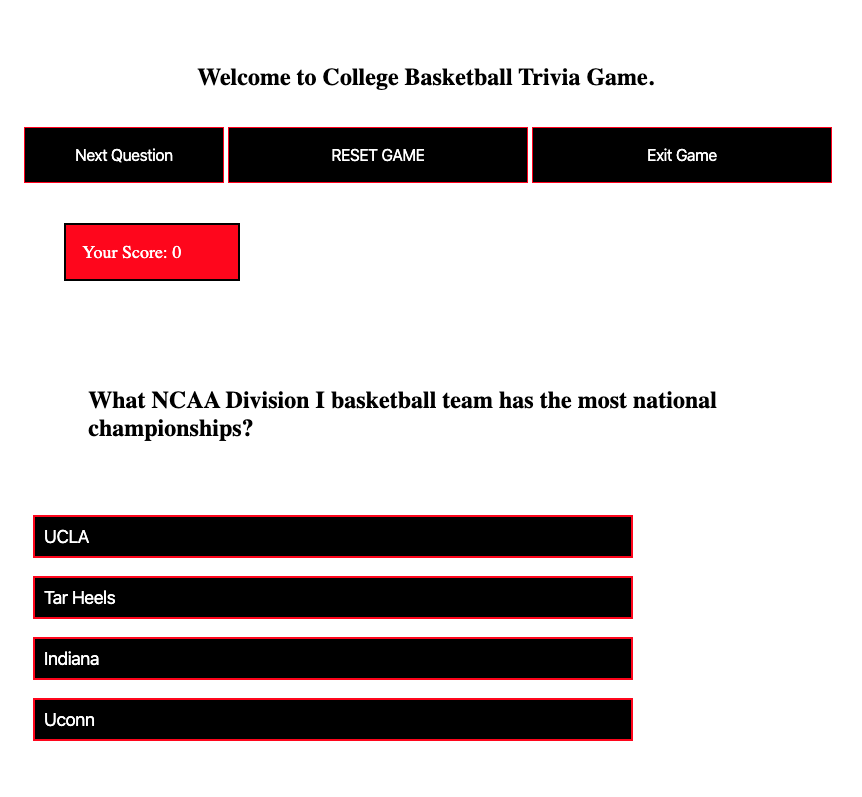
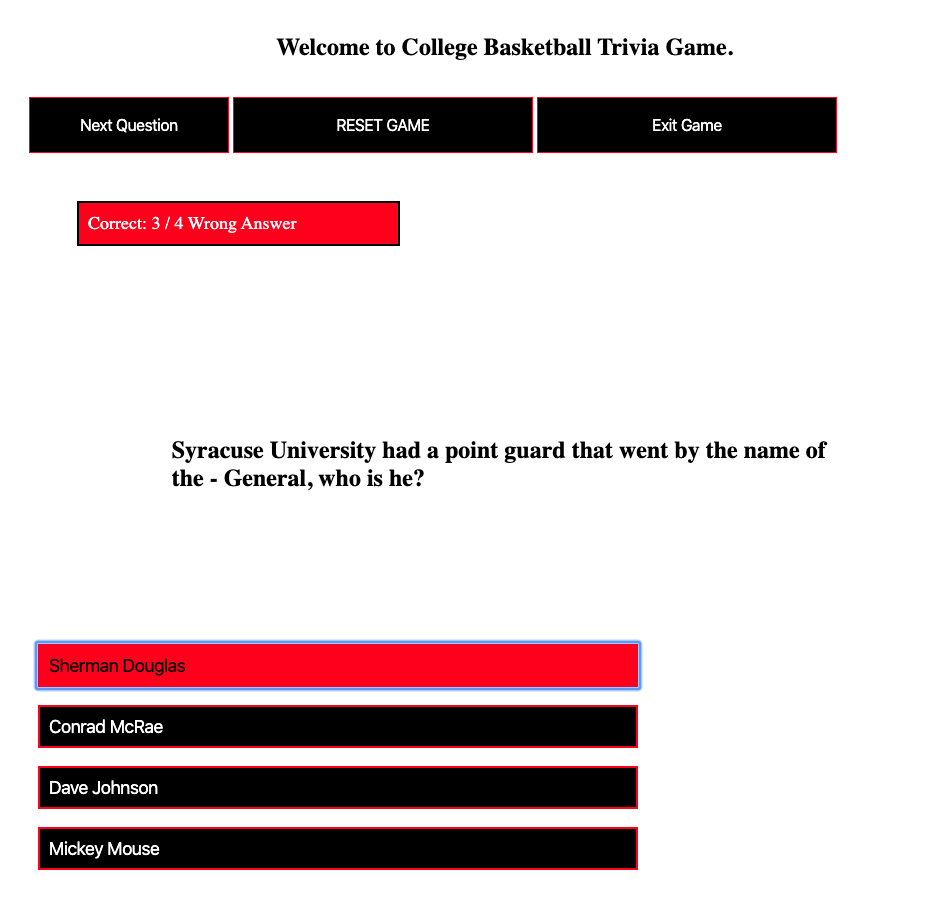
add stuff to readme file

diff --git a/js/gameLogic.js b/js/gameLogic.js
@@ -30,6 +30,7 @@ let scoreButtons = document.getElementsByTagName("span");
 let buttons = document.querySelectorAll(".inputAnswer");
 // console.log(scoreButtons[0]);
 // console.log(scoreButtons[1]);
+console.log(buttons);
 
 //GETS THE RANDOM QUESTION ONCE YOU CLICK ON THE 'NEXT QUESTION BTN'
 nQuestion.addEventListener("click", function() {

diff --git a/README.md b/README.md
@@ -1,8 +1,8 @@
 # Project 1 College Basketball Trivia Game
 
-The College Basketball trivia game project is a simple click through of random questions and answers. You will be given ten questions and four answers to choose from for each question. The scoring is done in the following format; click the correct answer your score goes up in increments of one. If you click a incorrect answers it either decreases your score or the score goes negative number.
+The College Basketball trivia game project is a simple click through of random questions and answers. You will be given ten questions and four answers to choose from for each question. The scoring is done in the following format; click the correct answer your score goes up in increments of one. If you click a incorrect answers it also increments by 1. There is a display for both correct and wrong answers.
 
-After receiving 10 correct answers the player wins and the games end.
+You are only allowed 10 questions the player wins/loses and the games end.
 
 # Motivation:
 
@@ -12,8 +12,7 @@ My love of sports, specifically basketball, motivated me to do this project. As 
 
 This is just two examples of the positive and negative numbers on your score depending on what I click for the answers. If your score shows negative, such at the picture (-7), you will have to click 7 times then another 10 positive to win.
 
-![picture](images/readMe/posNumber.png)
-![picture](images/readMe/negNumber.png)
+![picture](images/readMe/numbers.png)
 
 # Code style
 
@@ -21,7 +20,7 @@ No coding styles used. However, here is a snip of the array of objects used for 
 
 ![picture](images/readMe/arrayShot.png)
 
-Currently, the game ends when the player gets 10 points. I need to improve this part of the code function and end the game after the user completes ten questions ( no consideration whether the question is incorrect or correct).
+Currently, the game ends when the player gets 10 points or either side (correct and wrong) add up to ten. I need to improve this part of the code function and add a modal for pop up winner.
 
 ![picture](images/readMe/funct.png)
 
@@ -70,6 +69,10 @@ The test of my random question as well. I provide screenshots of testing the nex
 ![picture](images/readMe/randomArry.png)
 ![picture](images/readMe/randomTest.png)
 ![picture](images/readMe/randomAsnser.png)
+
+Created 1 event listener for the 4 buttons within the code and looped through them on clicks.
+
+![picture](images/readMe/eventListener.png)
 
 # How to Use
 
